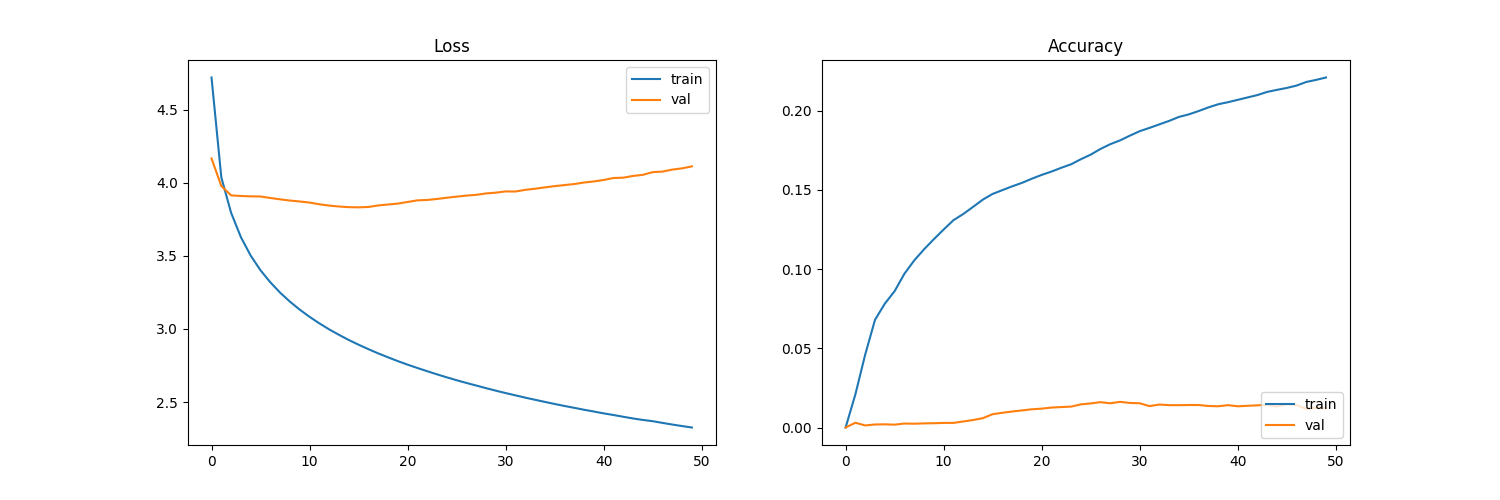
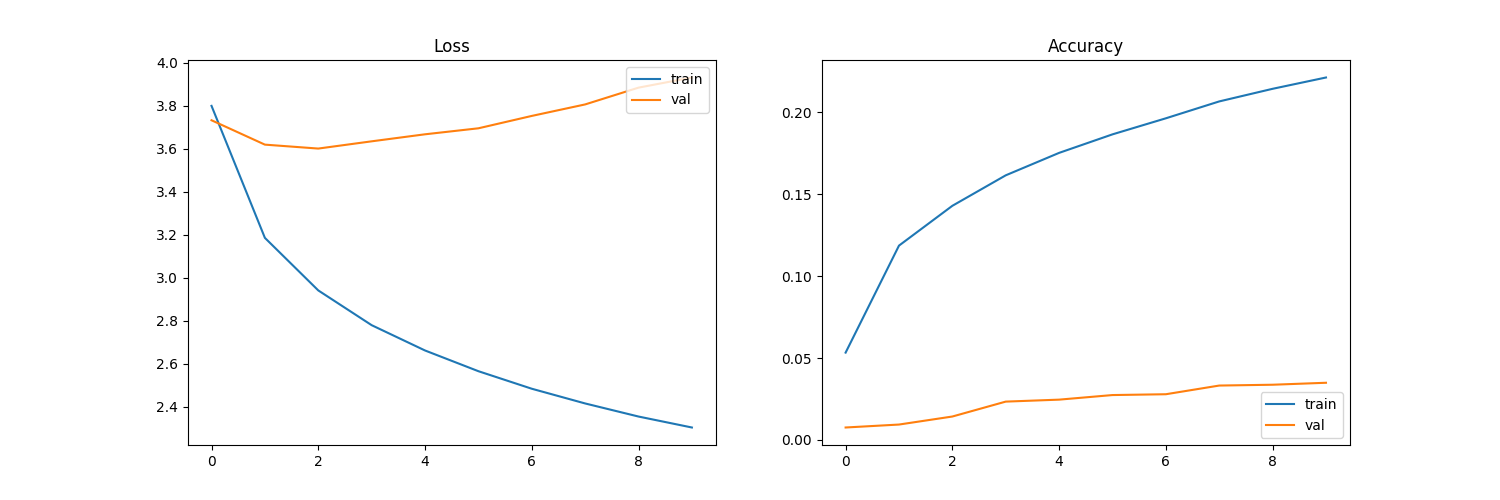
Save state for each epoch

diff --git a/lstm/plot.py b/lstm/plot.py
@@ -27,56 +27,16 @@ def plot_performance(train_loss, train_acc, val_loss, val_acc):
 
 
 if __name__ == '__main__':
-    input = '''[EPOCH]: 1 | [TRAIN LOSS]: 4.7213 | [TRAIN ACC]: 0.0000 | [VAL LOSS]: 4.1669 | [VAL ACC]: 0.0000
-[EPOCH]: 2 | [TRAIN LOSS]: 4.0376 | [TRAIN ACC]: 0.0210 | [VAL LOSS]: 3.9788 | [VAL ACC]: 0.0030
-[EPOCH]: 3 | [TRAIN LOSS]: 3.7949 | [TRAIN ACC]: 0.0461 | [VAL LOSS]: 3.9143 | [VAL ACC]: 0.0013
-[EPOCH]: 4 | [TRAIN LOSS]: 3.6280 | [TRAIN ACC]: 0.0680 | [VAL LOSS]: 3.9103 | [VAL ACC]: 0.0019
-[EPOCH]: 5 | [TRAIN LOSS]: 3.5017 | [TRAIN ACC]: 0.0782 | [VAL LOSS]: 3.9078 | [VAL ACC]: 0.0020
-[EPOCH]: 6 | [TRAIN LOSS]: 3.4014 | [TRAIN ACC]: 0.0861 | [VAL LOSS]: 3.9068 | [VAL ACC]: 0.0018
-[EPOCH]: 7 | [TRAIN LOSS]: 3.3194 | [TRAIN ACC]: 0.0971 | [VAL LOSS]: 3.8966 | [VAL ACC]: 0.0025
-[EPOCH]: 8 | [TRAIN LOSS]: 3.2484 | [TRAIN ACC]: 0.1055 | [VAL LOSS]: 3.8874 | [VAL ACC]: 0.0024
-[EPOCH]: 9 | [TRAIN LOSS]: 3.1869 | [TRAIN ACC]: 0.1125 | [VAL LOSS]: 3.8790 | [VAL ACC]: 0.0026
-[EPOCH]: 10 | [TRAIN LOSS]: 3.1323 | [TRAIN ACC]: 0.1189 | [VAL LOSS]: 3.8727 | [VAL ACC]: 0.0027
-[EPOCH]: 11 | [TRAIN LOSS]: 3.0830 | [TRAIN ACC]: 0.1250 | [VAL LOSS]: 3.8652 | [VAL ACC]: 0.0029
-[EPOCH]: 12 | [TRAIN LOSS]: 3.0385 | [TRAIN ACC]: 0.1309 | [VAL LOSS]: 3.8536 | [VAL ACC]: 0.0029
-[EPOCH]: 13 | [TRAIN LOSS]: 2.9972 | [TRAIN ACC]: 0.1348 | [VAL LOSS]: 3.8446 | [VAL ACC]: 0.0038
-[EPOCH]: 14 | [TRAIN LOSS]: 2.9600 | [TRAIN ACC]: 0.1393 | [VAL LOSS]: 3.8383 | [VAL ACC]: 0.0047
-[EPOCH]: 15 | [TRAIN LOSS]: 2.9245 | [TRAIN ACC]: 0.1439 | [VAL LOSS]: 3.8338 | [VAL ACC]: 0.0059
-[EPOCH]: 16 | [TRAIN LOSS]: 2.8924 | [TRAIN ACC]: 0.1475 | [VAL LOSS]: 3.8326 | [VAL ACC]: 0.0084
-[EPOCH]: 17 | [TRAIN LOSS]: 2.8620 | [TRAIN ACC]: 0.1499 | [VAL LOSS]: 3.8350 | [VAL ACC]: 0.0093
-[EPOCH]: 18 | [TRAIN LOSS]: 2.8329 | [TRAIN ACC]: 0.1523 | [VAL LOSS]: 3.8455 | [VAL ACC]: 0.0101
-[EPOCH]: 19 | [TRAIN LOSS]: 2.8063 | [TRAIN ACC]: 0.1545 | [VAL LOSS]: 3.8520 | [VAL ACC]: 0.0108
-[EPOCH]: 20 | [TRAIN LOSS]: 2.7800 | [TRAIN ACC]: 0.1571 | [VAL LOSS]: 3.8580 | [VAL ACC]: 0.0115
-[EPOCH]: 21 | [TRAIN LOSS]: 2.7558 | [TRAIN ACC]: 0.1595 | [VAL LOSS]: 3.8693 | [VAL ACC]: 0.0119
-[EPOCH]: 22 | [TRAIN LOSS]: 2.7329 | [TRAIN ACC]: 0.1616 | [VAL LOSS]: 3.8804 | [VAL ACC]: 0.0126
-[EPOCH]: 23 | [TRAIN LOSS]: 2.7109 | [TRAIN ACC]: 0.1640 | [VAL LOSS]: 3.8831 | [VAL ACC]: 0.0129
-[EPOCH]: 24 | [TRAIN LOSS]: 2.6894 | [TRAIN ACC]: 0.1662 | [VAL LOSS]: 3.8898 | [VAL ACC]: 0.0132
-[EPOCH]: 25 | [TRAIN LOSS]: 2.6689 | [TRAIN ACC]: 0.1694 | [VAL LOSS]: 3.8983 | [VAL ACC]: 0.0146
-[EPOCH]: 26 | [TRAIN LOSS]: 2.6492 | [TRAIN ACC]: 0.1723 | [VAL LOSS]: 3.9058 | [VAL ACC]: 0.0152
-[EPOCH]: 27 | [TRAIN LOSS]: 2.6306 | [TRAIN ACC]: 0.1759 | [VAL LOSS]: 3.9129 | [VAL ACC]: 0.0160
-[EPOCH]: 28 | [TRAIN LOSS]: 2.6130 | [TRAIN ACC]: 0.1789 | [VAL LOSS]: 3.9182 | [VAL ACC]: 0.0153
-[EPOCH]: 29 | [TRAIN LOSS]: 2.5949 | [TRAIN ACC]: 0.1813 | [VAL LOSS]: 3.9276 | [VAL ACC]: 0.0162
-[EPOCH]: 30 | [TRAIN LOSS]: 2.5777 | [TRAIN ACC]: 0.1843 | [VAL LOSS]: 3.9331 | [VAL ACC]: 0.0155
-[EPOCH]: 31 | [TRAIN LOSS]: 2.5613 | [TRAIN ACC]: 0.1871 | [VAL LOSS]: 3.9415 | [VAL ACC]: 0.0153
-[EPOCH]: 32 | [TRAIN LOSS]: 2.5456 | [TRAIN ACC]: 0.1892 | [VAL LOSS]: 3.9409 | [VAL ACC]: 0.0135
-[EPOCH]: 33 | [TRAIN LOSS]: 2.5300 | [TRAIN ACC]: 0.1914 | [VAL LOSS]: 3.9523 | [VAL ACC]: 0.0145
-[EPOCH]: 34 | [TRAIN LOSS]: 2.5154 | [TRAIN ACC]: 0.1936 | [VAL LOSS]: 3.9600 | [VAL ACC]: 0.0141
-[EPOCH]: 35 | [TRAIN LOSS]: 2.5008 | [TRAIN ACC]: 0.1961 | [VAL LOSS]: 3.9689 | [VAL ACC]: 0.0141
-[EPOCH]: 36 | [TRAIN LOSS]: 2.4867 | [TRAIN ACC]: 0.1977 | [VAL LOSS]: 3.9778 | [VAL ACC]: 0.0142
-[EPOCH]: 37 | [TRAIN LOSS]: 2.4730 | [TRAIN ACC]: 0.1998 | [VAL LOSS]: 3.9848 | [VAL ACC]: 0.0142
-[EPOCH]: 38 | [TRAIN LOSS]: 2.4603 | [TRAIN ACC]: 0.2021 | [VAL LOSS]: 3.9921 | [VAL ACC]: 0.0136
-[EPOCH]: 39 | [TRAIN LOSS]: 2.4470 | [TRAIN ACC]: 0.2041 | [VAL LOSS]: 4.0024 | [VAL ACC]: 0.0134
-[EPOCH]: 40 | [TRAIN LOSS]: 2.4350 | [TRAIN ACC]: 0.2054 | [VAL LOSS]: 4.0099 | [VAL ACC]: 0.0141
-[EPOCH]: 41 | [TRAIN LOSS]: 2.4223 | [TRAIN ACC]: 0.2069 | [VAL LOSS]: 4.0199 | [VAL ACC]: 0.0134
-[EPOCH]: 42 | [TRAIN LOSS]: 2.4111 | [TRAIN ACC]: 0.2084 | [VAL LOSS]: 4.0333 | [VAL ACC]: 0.0137
-[EPOCH]: 43 | [TRAIN LOSS]: 2.3991 | [TRAIN ACC]: 0.2099 | [VAL LOSS]: 4.0356 | [VAL ACC]: 0.0140
-[EPOCH]: 44 | [TRAIN LOSS]: 2.3874 | [TRAIN ACC]: 0.2119 | [VAL LOSS]: 4.0475 | [VAL ACC]: 0.0143
-[EPOCH]: 45 | [TRAIN LOSS]: 2.3774 | [TRAIN ACC]: 0.2132 | [VAL LOSS]: 4.0552 | [VAL ACC]: 0.0132
-[EPOCH]: 46 | [TRAIN LOSS]: 2.3688 | [TRAIN ACC]: 0.2144 | [VAL LOSS]: 4.0735 | [VAL ACC]: 0.0146
-[EPOCH]: 47 | [TRAIN LOSS]: 2.3571 | [TRAIN ACC]: 0.2159 | [VAL LOSS]: 4.0772 | [VAL ACC]: 0.0142
-[EPOCH]: 48 | [TRAIN LOSS]: 2.3459 | [TRAIN ACC]: 0.2182 | [VAL LOSS]: 4.0909 | [VAL ACC]: 0.0117
-[EPOCH]: 49 | [TRAIN LOSS]: 2.3354 | [TRAIN ACC]: 0.2195 | [VAL LOSS]: 4.0994 | [VAL ACC]: 0.0125
-[EPOCH]: 50 | [TRAIN LOSS]: 2.3256 | [TRAIN ACC]: 0.2210 | [VAL LOSS]: 4.1130 | [VAL ACC]: 0.0122
+    input = '''[EPOCH]: 1 | [TRAIN LOSS]: 3.7990 | [TRAIN ACC]: 0.0533 | [VAL LOSS]: 3.7320 | [VAL ACC]: 0.0076
+[EPOCH]: 2 | [TRAIN LOSS]: 3.1847 | [TRAIN ACC]: 0.1186 | [VAL LOSS]: 3.6186 | [VAL ACC]: 0.0094
+[EPOCH]: 3 | [TRAIN LOSS]: 2.9402 | [TRAIN ACC]: 0.1429 | [VAL LOSS]: 3.6003 | [VAL ACC]: 0.0143
+[EPOCH]: 4 | [TRAIN LOSS]: 2.7785 | [TRAIN ACC]: 0.1615 | [VAL LOSS]: 3.6340 | [VAL ACC]: 0.0234
+[EPOCH]: 5 | [TRAIN LOSS]: 2.6607 | [TRAIN ACC]: 0.1752 | [VAL LOSS]: 3.6667 | [VAL ACC]: 0.0246
+[EPOCH]: 6 | [TRAIN LOSS]: 2.5643 | [TRAIN ACC]: 0.1865 | [VAL LOSS]: 3.6946 | [VAL ACC]: 0.0274
+[EPOCH]: 7 | [TRAIN LOSS]: 2.4827 | [TRAIN ACC]: 0.1963 | [VAL LOSS]: 3.7522 | [VAL ACC]: 0.0279
+[EPOCH]: 8 | [TRAIN LOSS]: 2.4142 | [TRAIN ACC]: 0.2066 | [VAL LOSS]: 3.8057 | [VAL ACC]: 0.0332
+[EPOCH]: 9 | [TRAIN LOSS]: 2.3533 | [TRAIN ACC]: 0.2143 | [VAL LOSS]: 3.8838 | [VAL ACC]: 0.0337
+[EPOCH]: 10 | [TRAIN LOSS]: 2.3023 | [TRAIN ACC]: 0.2212 | [VAL LOSS]: 3.9310 | [VAL ACC]: 0.0349
 '''
     train_states = re.findall(
         r'\[EPOCH\]: \d+ \| \[TRAIN LOSS\]: ([0-9.]+) \| \[TRAIN ACC\]: ([0-9.]+) \| \[VAL LOSS\]: ([0-9.]+) \| \[VAL ACC\]: ([0-9.]+)',

diff --git a/lstm/run.py b/lstm/run.py
@@ -147,6 +147,10 @@ if __name__ == "__main__":
                 *train_state))
         train_states.append(train_state)
 
+        # Save state
+        json.dump(train_states, open("lstm/train_states.json", "w+"), indent=4)
+        plot_performance(*[[train_state[i] for train_state in train_states] for i in range(4)])
+
     model.eval()
     with torch.no_grad():
         predicted = [torch.argmax(model(input.to(device)), dim=1) for input, target in test_dataset]
@@ -156,6 +160,3 @@ if __name__ == "__main__":
         correct = torch.cat(correct)
 
         print("Validation accuracy: {}".format(compute_accuracy(predicted, correct)))
-
-    json.dump(train_states, open("lstm/train_states.json", "w+"), indent=4)
-    plot_performance(*[[train_state[i] for train_state in train_states] for i in range(4)])
